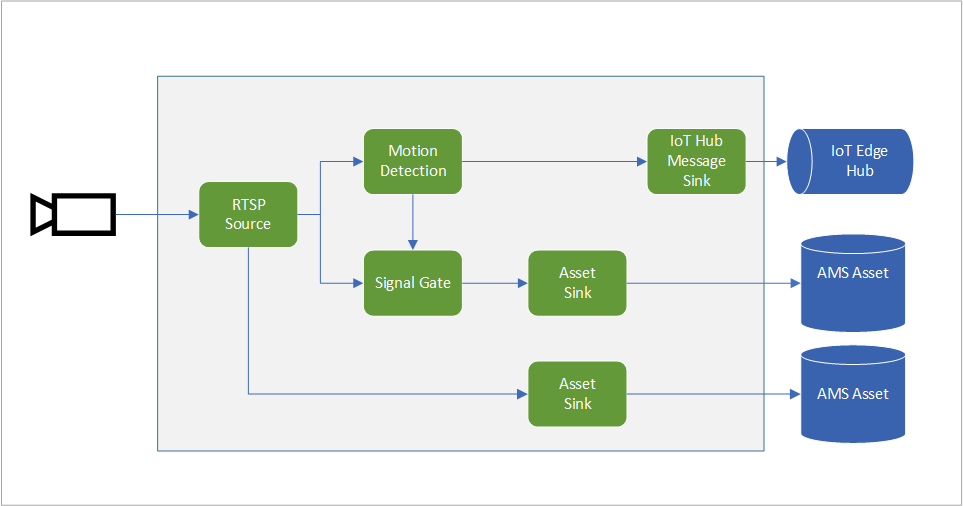
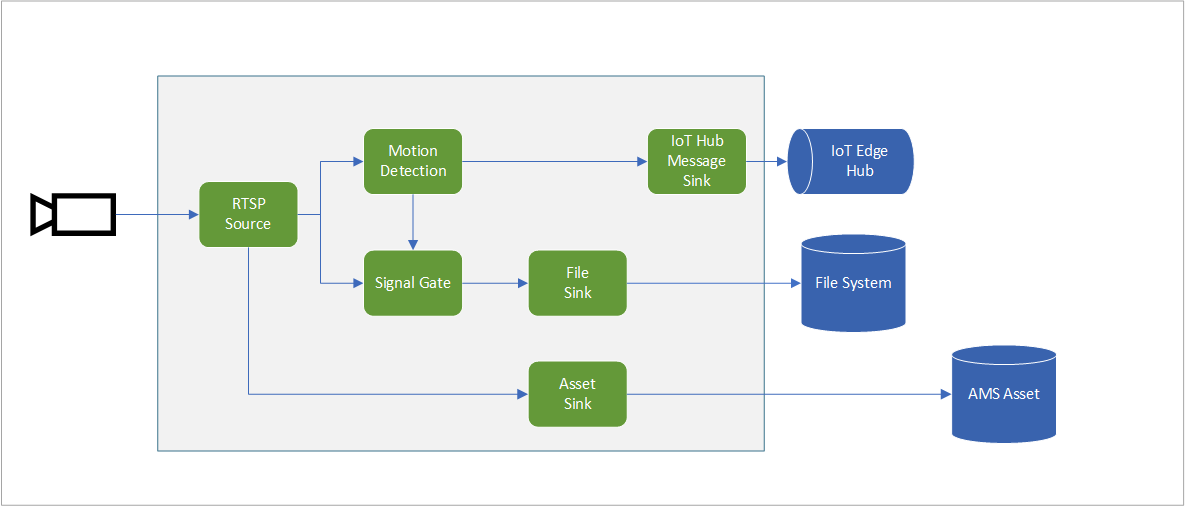
removed a topo and fixed couple others

diff --git a/MediaGraph/topologies/cvr-with-evr-motion-assets/readme.md b/MediaGraph/topologies/cvr-with-evr-motion-assets/readme.md
@@ -2,7 +2,7 @@
 
 This topology enables you to continuously record the video from an RTSP-capable camera to an Azure Media Services Asset. You can read more about the relevant settings in [this](https://github.com/Azure/live-video-analytics/blob/master/MediaGraph/topologies/cvr-asset/readme.md) page.
 
-Additionally, this topology enables you to perform event-based recording. The video from an RTSP-capable camera is analyzed for the presence of motion. When motion is detected, those events are published to the IoT Hub. In addition, the motion events are used to trigger a signal gate which will send frames to an Asset Sink only when motion is present. As a result, new Assets are created containing clips where motion was detected.
+Additionally, this topology enables you perform event-based recording. The video from an RTSP-capable camera is analyzed for the presence of motion. When motion is detected, those events are published to the IoT Hub. In addition, the motion events are used to trigger a signal gate which will send frames to an local file only when motion is present. As a result, new files are created containing clips where motion was detected.
 
 <br>
 <p align="center">
